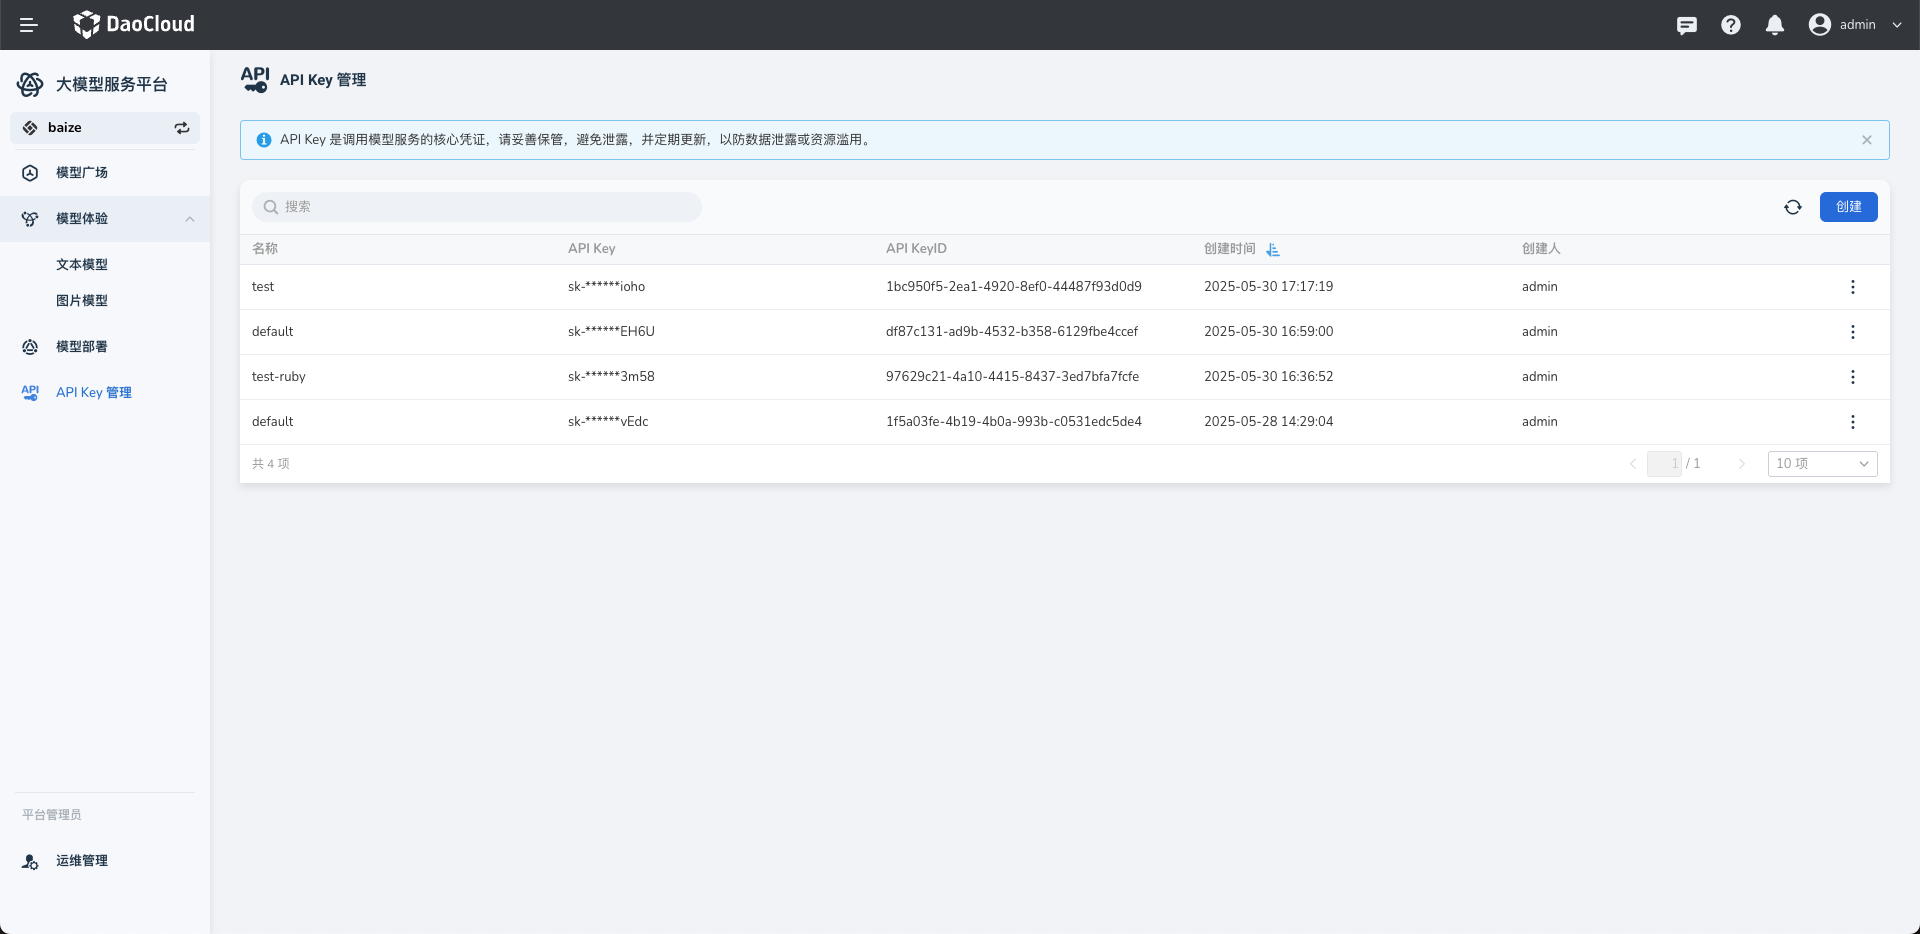
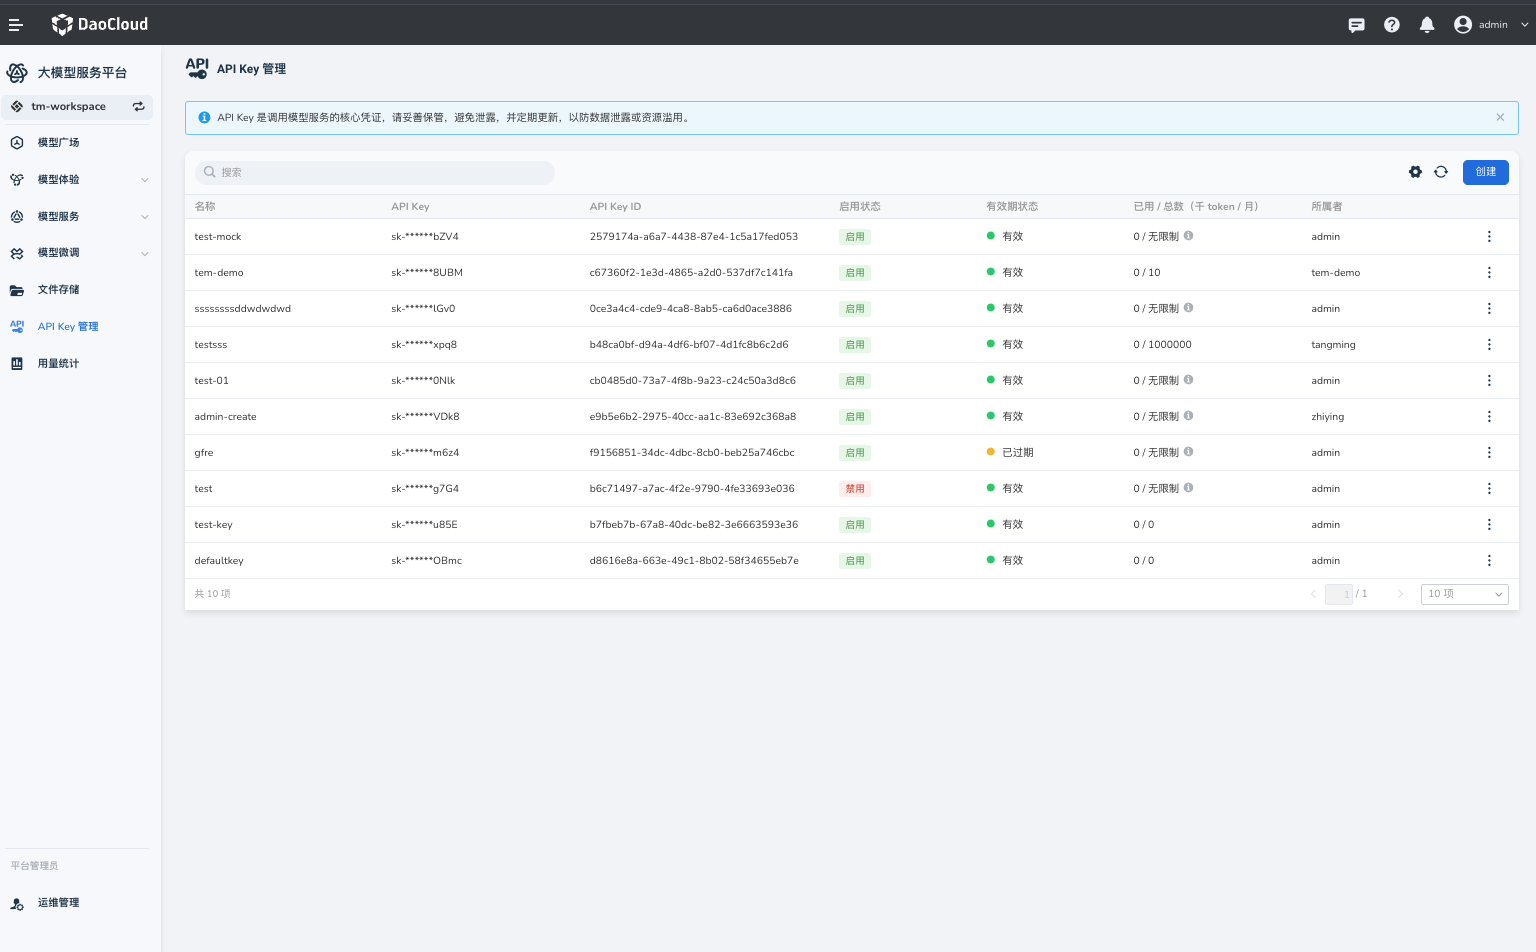
update text2image and etc.

diff --git a/docs/en/docs/hydra/exp.md b/docs/en/docs/hydra/exp.md
@@ -1,91 +1,97 @@
-# Playground
+# Model Experience
 
-*[Hydra]: Codename for LLM Studio
+*[Hydra]: The development codename for the LLM Service Platform
 
-Most models in Hydra not only provide descriptive information but also offer an interactive trial feature. For example, you can chat with a large language model to directly experience its capabilities.
+Most models in Hydra provide both information and an interactive inference experience. For example, you can chat with a large language model to explore its capabilities.
 
-## Trial Entry Points
+![Model experience](./images/exp01.png)
 
-Hydra provides two convenient entry points for Playground. Choose the one that best suits your needs:
+## Open the Experience Center
 
-- **Option 1:** On the [Model Gallery](./index.md) page, select a model you like and click **Try** to enter the trial interface.
-- **Option 2:** From the left menu, click **Playground**, select a model type, and begin. Currently supported types are **Text Models** and **Image Models**.
+You can access the experience center in either of these ways:
 
-## Trial Overview
+- On the [Model Plaza](./index.md), select a model and click **Try it**.
+- In the left navigation, click **Model Experience**, select a model type, and start an experience. Text and image models are available.
 
-When you first enter the **Playground**, the system will recommend popular high-quality models for you to try. You can:
+## Choose a Model
 
-- Click on a recommended model to immediately start a chat with it;
-- Or select other models of interest from the **Public Models** list;
-- If you’ve deployed your own models, you can also try them from the **Model Services** list.
+When you first open the **Experience Center**, the platform recommends popular models. You can select a recommended model, choose another model from **Public Models**, or select a deployed model from **Model Services**.
 
-## Model Types
+## Text Models
 
-### Text Models
+The experience center supports built-in chat models and services you have created. You can add multiple models for online comparison.
 
-The Playground supports pre-configured conversational models, as well as your self-deployed models. Multiple online text models can be selected at once.
+### Have a Text Conversation
 
-### Image Models
+1. On your first visit, select an API key. If you do not have one, you can authorize the platform to create one automatically.
+2. Select a model from the list and open it. If you have already added a model, you can skip this step.
+3. If you are not satisfied with an answer, click **Regenerate**. Click **Copy** to copy the generated content.
 
-Currently supports the preconfigured image generation model, along with user-deployed services. Only **one** image model can be used in a trial at a time.
+The bottom of the conversation also shows the number of tokens used for the response, which can help you compare model performance.
 
-### Completing a Full Conversation
+![Switch models](./images/exp04.png)
 
-Just three steps to complete a trial conversation:
+### Clear Conversation Context
 
-1. On your first visit, choose an API Key. If you don't have one, the platform can auto-generate it for you.
-2. Select a model from the list and click it to begin. If you’ve already added a model, you can skip this step and start directly.
-3. If you're not satisfied with the response, click **Refresh** to regenerate. Click **Copy** to copy the generated content.
+Click **Clear context** in the upper-right corner of the conversation panel to end the current conversation and clear its context. Messages below it will not be affected by earlier content.
 
-At the bottom of the conversation, the number of tokens used is displayed, which helps evaluate model performance.
+![Clear context](./images/exp05.png)
 
-## More Conversation Features
+### Compare Text Models
 
-Click **Clear Context** in the upper-right of the chat box to end the current session and reset the context — new messages won’t be influenced by previous ones.
+Click **Add model** in the upper-right corner. You can compare up to three text-generation models.
 
-## Model Comparison
+![Compare models](./images/exp06.png)
 
-Click **Add Model** in the top-right to compare up to **three** text-generation models side by side.
+### Switch Text Models
 
-## Switching Models
+In the model information bar at the top, click **Switch model** to select another model.
 
-Click the **Switch Model** button in the top information bar to switch to another model.
+![Switch models](./images/exp02.png)
 
+### Configure Text Model Parameters
 
-## Model Parameters
+Click **Model configuration** on the right side of the model information bar to adjust generation parameters. Hover over the **?** next to a parameter name for its description.
 
-Hydra allows users to adjust various model parameters. Different configurations affect the generated response.  
-Click **Model Config** in the top bar to adjust settings.
+| Parameter | Description | Suggested value |
+| --- | --- | --- |
+| System role | Defines the model's behavior, background, responsibilities, and role. | For example, “You are an AI assistant.” |
+| `top_p` | Controls output diversity. Higher values allow more varied output. | `0.8` |
+| `temperature` | Controls randomness. Higher values produce more varied output; lower values produce more focused output. | `0.7` |
+| `max_tokens` | Sets the maximum number of tokens the model can generate. `0` means unlimited. | Chat: 500–800; short text: 800–2,000; code: 2,000–3,600; long text: 4,000+ |
 
-Hover over the **?** next to each parameter to see its detailed explanation.
-
-| Parameter | Description | Suggested Value |
-| ----- | ------- | ------ |
-| System Role | Defines the model's behavior guidelines and background information, clarifying the responsibilities the model needs to take on and the role it plays. | For example, "You are an AI assistant". |
-| top_p | Controls the diversity of the output text. The larger the value, the richer and more diverse the generated text. | 0.8 |
-| temperature | The higher the value, the more random and diverse the output; the lower the value, the more focused and deterministic the output. | 0.7 |
-| max_tokens | The maximum number of tokens the model can generate. If set to 0, there is no limit. | General chat: 500–800;<br>Short text: 800–2000;<br>Code: 2000–3600;<br>Long text: 4000+ |
+![Model configuration](./images/exp03.png)
 
 !!! note
 
-    Both `temperature` and `top_p` can control the randomness of the model output, but in different ways.
+    Both `temperature` and `top_p` control randomness, but in different ways. `temperature` adjusts the overall probability distribution, while `top_p` limits sampling to tokens within a cumulative probability threshold. In practice, adjust one of them at a time: use `temperature` for more predictable output or `top_p` for natural output that does not diverge too much. See the [Hugging Face documentation](https://huggingface.co/docs/transformers/) for more information.
 
-    - `temperature` adjusts the overall probability distribution. The higher the value, the more random and
-      creative the output; the lower the value, the more stable and deterministic the output.
-      You can think of it as "a knob for adjusting how bold the model is".
-    - `top_p` limits the range of candidate words that participate in sampling. The model only selects the next
-      word from high-probability words whose cumulative probability reaches the threshold, thereby filtering
-      out low-probability "long-tail" words. You can think of it as "removing unreliable options before
-      picking a word".
+## Image Models
 
-    In engineering practice, usually only one of them is needed:
+The experience center supports built-in image-generation models and services you have created. Online experience currently supports one model at a time.
 
-    - When you want stable and controllable output, prefer `temperature`
-    - When you want the output to be natural and fluent without being too divergent, prefer `top_p`
+### Generate an Image
 
-    For more information, see the [parameter descriptions in the Hugging Face documentation](https://huggingface.co/docs/transformers/).
+1. On your first visit, select an API key. If you do not have one, you can authorize the platform to create one automatically.
+2. Select an image model from the list.
+3. Enter a prompt, choose the image size, and click **Generate**.
 
-<!-- | <span style=";color:red">* | Required fields are marked with a red asterisk. |
-| Negative Prompt | For image generation: specify content you **do not** want in the output. |
-| Guidance scale | Controls how closely the image adheres to the text description. Higher values mean more accurate images; lower values allow more creativity. |
--->
+Select a model service:
+
+![Select an image model](./images/exp07.png)
+
+Enter a prompt, choose a size, and click **Generate**:
+
+![Generate an image](./images/exp08.png)
+
+## Speech Recognition Models
+
+The experience center supports built-in speech recognition models and services you have created. Online experience currently supports one model at a time.
+
+### Transcribe Speech
+
+1. On your first visit, select an API key. If you do not have one, you can authorize the platform to create one automatically.
+2. Select a speech recognition model from the list.
+3. Click **Upload audio** to upload an audio file, then click **Start recognition** to generate a transcript.
+
+![Speech recognition](./images/exp09.png)

diff --git a/docs/en/docs/hydra/apikey.md b/docs/en/docs/hydra/apikey.md
@@ -1,58 +1,61 @@
 # API Key Management
 
-The API Key is a core credential for invoking model services, used to authenticate users and protect data security.
+An API key is a core credential for accessing model services. It verifies user identity and helps protect data.
 
-![api keys](./images/apikey01.png)
+![API keys](./images/apikey01.png)
 
-## Feature Overview
+## Overview
 
-- **Purpose of API Key**:
-    - It is required for invoking model services and performing identity verification.
-    - With an API Key, you can securely access deployed model services.
+- **Purpose**: An API key is required to authenticate requests to deployed model services.
+- **Security**: Keep API keys secure. Do not expose them in client-side code or public environments. If a key is compromised, delete it and generate a replacement.
 
-- **Security Tips**:
-    - Keep your API Key safe. Avoid exposing it in client-side code or public environments.
-    - If your API Key is compromised, delete it immediately and generate a new one.
+## Create an API Key
 
-## Creating an API Key
+1. On the **API Key Management** page, click **Create** in the upper-right corner.
+2. In the **Create API Key** dialog, enter a name, such as `test-key`, to identify its purpose or project.
+3. Select the owner account.
+4. Set the **Token quota** for the key.
+5. Configure the **IP allowlist** to restrict the IP addresses or CIDR ranges that can use the key to call models.
+6. Set the **Accessible models** that the key can use.
+7. Set the **Validity period** for model access.
+8. Click **Confirm** to create the key.
 
-1. On the **API Key Management** page, click the **Create** button in the top-right corner.
-2. In the popup window, enter a name for the API Key (e.g., `test-key`) to indicate its purpose or associated project.
-3. Click **Confirm**, and the system will generate a new API Key.
+![API keys](./images/apikey02.png)
 
 !!! note
 
-    Please save the API Key immediately after creation, as it will not be displayed in full again.
+    Save the API key when it is first displayed. The full key will not be shown again.
 
-## Viewing API Keys
+## View API Keys
 
-- The API Key list displays all the keys you’ve created:
-    - **Name**: Identifier for the API Key, helping to distinguish between different use cases.
-    - **API Key**: Partially masked key content for reference.
-    - **Created At**: Timestamp when the API Key was generated.
-- Click the refresh icon :material-refresh: in the top-right to update the key list.
+The API key list shows the keys you have created, including their names, partially masked values, and creation times. Click the refresh icon in the upper-right corner to update the list.
 
-## Deleting an API Key
+## Delete an API Key
 
-1. Locate the API Key you wish to delete in the list.
-2. Click the row to initiate the deletion.
-3. Confirm the deletion in the popup dialog.
-4. Once deleted, the API Key becomes immediately invalid, and any dependent service calls will be rejected.
+1. Find the key in the list and select the delete action for its row.
+2. Confirm the deletion in the dialog.
+3. The key becomes invalid immediately, and requests that use it are rejected.
 
-## Using API Key to Call Services
+## Enable or Disable an API Key
 
-When invoking a model service, include the following field in your HTTP request header:
+Use **Disable** to disable a key, or **Enable** to reactivate it.
+
+![API keys](./images/apikey03.png)
+
+## Call a Service with an API Key
+
+Add the following header to the HTTP request:
 
 ```http
 Authorization: Bearer {API_KEY}
 ```
 
-**Example**:
+Example:
 
 ```shell
 curl 'https://sh-02.d.run/v1/chat/completions' \
   -H "Content-Type: application/json" \
-  -H "Authorization: Bearer sk-x1VDTAFB7Ra1hldATbncOa_dddVttDvRHQibTA-Oi7ucU" \
+  -H "Authorization: Bearer <API_KEY>" \
   -d '{
     "model": "u-8105f7322477/test",
     "messages": [{"role": "user", "content": "Hello, model!"}],
@@ -60,9 +63,12 @@ curl 'https://sh-02.d.run/v1/chat/completions' \
   }'
 ```
 
+Replace `<API_KEY>` with your key.
+
 ## Notes
 
-* **API Key Limit**: Each account has a limit on the number of API Keys that can be created. Allocate them wisely.
-* **Key Leakage Handling**: If a key is compromised, delete it immediately and generate a new one.
-* **Key Access Control**: Different API Keys can be assigned to different projects or services to isolate permissions.
-* **Key Rotation**: For security, it's recommended to periodically delete old keys and generate new ones.
+- Each account has a limit on the number of API keys it can create. Allocate keys according to your needs.
+- If a key is exposed, delete it immediately and create a replacement.
+- Use separate keys for different projects or services to isolate permissions.
+- Rotate keys regularly.
+- API keys are tenant-scoped. The signed-in account can edit only keys in tenants for which it has permission.

diff --git a/docs/en/docs/hydra/oam/model-provider.md b/docs/en/docs/hydra/oam/model-provider.md
@@ -1,0 +1,41 @@
+# Model Provider Management
+
+Platform administrators can use **Model Provider Management** to maintain the model service providers available on the platform. The module supports importing providers in batches, creating providers, updating their information, and deleting providers. Provider information is used as a foundation for model onboarding and management.
+
+## Access Model Provider Management
+
+1. Sign in to Hydra with a platform administrator account.
+2. Open **Model Provider Management** from **Operations Management** in the LLM platform.
+
+![Model providers](./images/provider01.png)
+
+## View Providers
+
+The page lists the configured model providers. Use the available search or filter options to find a provider, then open its details to review its configuration.
+
+## Create a Provider
+
+1. On the Model Provider Management page, click **Create Provider**.
+2. Fill in the provider details, such as its Chinese name, English name, and icon. Keep the identifier unique and consistent with the value referenced by model configurations.
+3. Review the information and click **Confirm**.
+4. Return to the list and verify that the provider appears.
+
+## Update a Provider
+
+1. Find the provider in the list and click **Edit**.
+2. Update the required information and save your changes.
+3. Return to the list or details page to verify the update.
+
+## Delete a Provider
+
+1. Find the provider in the list and click **Delete**.
+2. Verify the provider in the confirmation prompt and confirm the deletion.
+
+Before deleting a provider, check whether any models or other configurations still reference it. Update those configurations first to avoid affecting model management or requests.
+
+## Recommendations
+
+- Use clear, stable provider names and identifiers so administrators can recognize and reference them consistently.
+- Check related models and business configurations before updating or deleting a provider.
+- Treat login credentials as sensitive information. Distribute them through a controlled channel and replace default credentials promptly.
+- Model providers are also loaded as filters on the Model Plaza.

diff --git a/docs/zh/docs/hydra/apikey.md b/docs/zh/docs/hydra/apikey.md
@@ -19,8 +19,15 @@ API Key 是调用模型服务的核心凭证，用于验证用户身份并保护
 ## 创建 API Key
 
 1. 在 **API Key 管理** 页面中，点击右上角的 **创建** 按钮
-2. 在弹出的窗口中，填写 API Key 的名称（如 test-key），用于标识该 Key 的用途或所属项目
+2. 在 **创建 API Key** 窗口中，填写 API Key 的名称（如 test-key），用于标识该 Key 的用途或所属项目
+3. 在 **创建 API Key** 窗口中， 选择所属者，用于标识该 Key 所属账户
+4. 在 **创建 API Key** 窗口中， 填写 **Token 配额**，用于设置该 Key 可用额度
+5. 在 **创建 API Key** 窗口中， 设置 **IP访问白名单**，限制该Key 可以调用模型的 IP 地址或网段
+6. 在 **创建 API Key** 窗口中， 设置 **访问模型范围**，设置该Key 可以访问的模型
+7. 在 **创建 API Key** 窗口中， 设置 **有效期** 可以定义该Key 可以访问模型的有效期
 3. 点击 **确定** ，系统将生成一个新的 API Key
+
+![api keys](./images/apikey02.png)
 
 !!! note
 
@@ -40,6 +47,14 @@ API Key 是调用模型服务的核心凭证，用于验证用户身份并保护
 2. 点击某一行，可以执行删除操作
 3. 在弹窗中确认删除操作
 4. 删除后，该 API Key 将立即失效，所有依赖于此 Key 的服务调用将被拒绝
+
+## 启停 API Key
+
+1. 点击 **禁用** 按钮可以禁用该Key
+2. 点击 **启用** 按钮可以启用该Key
+
+
+![api keys](./images/apikey03.png)
 
 ## 使用 API Key 调用服务
 
@@ -68,3 +83,4 @@ curl 'https://sh-02.d.run/v1/chat/completions' \
 - 密钥泄露处理：如果发现密钥泄露，请立即删除旧密钥并重新创建新密钥
 - Key 的权限管理：不同的 API Key 可用于不同的项目或服务，便于权限隔离
 - 定期更新密钥：为了安全性，建议定期删除旧 Key 并生成新 Key
+- API Key是租户隔离，当前登录账号只能编辑有权限的租户下的API Key

diff --git a/docs/zh/docs/hydra/oam/model-provider.md b/docs/zh/docs/hydra/oam/model-provider.md
@@ -1,0 +1,41 @@
+# 模型提供商管理
+
+平台管理员可以通过 **模型提供商管理** 功能维护可用的模型服务提供商信息，包括批量导入、创建提供商、更新或删除提供商，为后续模型接入和管理提供基础信息。
+
+## 访问模型提供商管理
+
+1. 使用具备平台管理员权限的账号登录 Hydra。
+2. 在大模型平台 **运维管理** 里使用模型提供商管理功能模块。
+
+![provider](./images/provider01.png)
+
+## 查看提供商
+
+进入模型提供商管理页面后，可以查看当前已配置的模型提供商列表。使用页面提供的搜索或筛选功能定位目标提供商，并进入详情查看其配置。
+
+## 创建提供商
+
+1. 在模型提供商管理页面点击 **创建提供商** 。
+2. 按页面表单填写提供商信息, 中文名字、英文名字、图标等；标识应保持唯一，并与后续模型配置中引用的提供商一致。
+3. 核对填写内容后，点击 **确定** 完成创建。
+4. 返回列表确认新提供商已显示。
+
+## 更新提供商
+
+1. 在提供商列表中选择目标提供商，点击对应的 **编辑** 操作。
+2. 修改需要更新的信息，并保存。
+3. 返回列表或详情，确认变更已生效。
+
+## 删除提供商
+
+1. 在提供商列表中选择目标提供商，点击 **删除**。
+2. 在确认提示中核对对象，再确认删除。
+
+删除前请检查是否仍有模型或其他配置引用该提供商；存在关联时，先调整相关配置，避免影响模型管理或调用。
+
+## 使用建议
+
+- 提供商名称和标识应清晰、稳定，便于管理员识别及后续配置引用。
+- 修改或删除提供商前，先检查关联模型和业务配置。
+- 登录凭据属于敏感信息，应通过受控渠道分发，并及时替换部署中的默认凭据。
+- 模型提供商会作为筛选条件加载在模型广场筛选项里。
